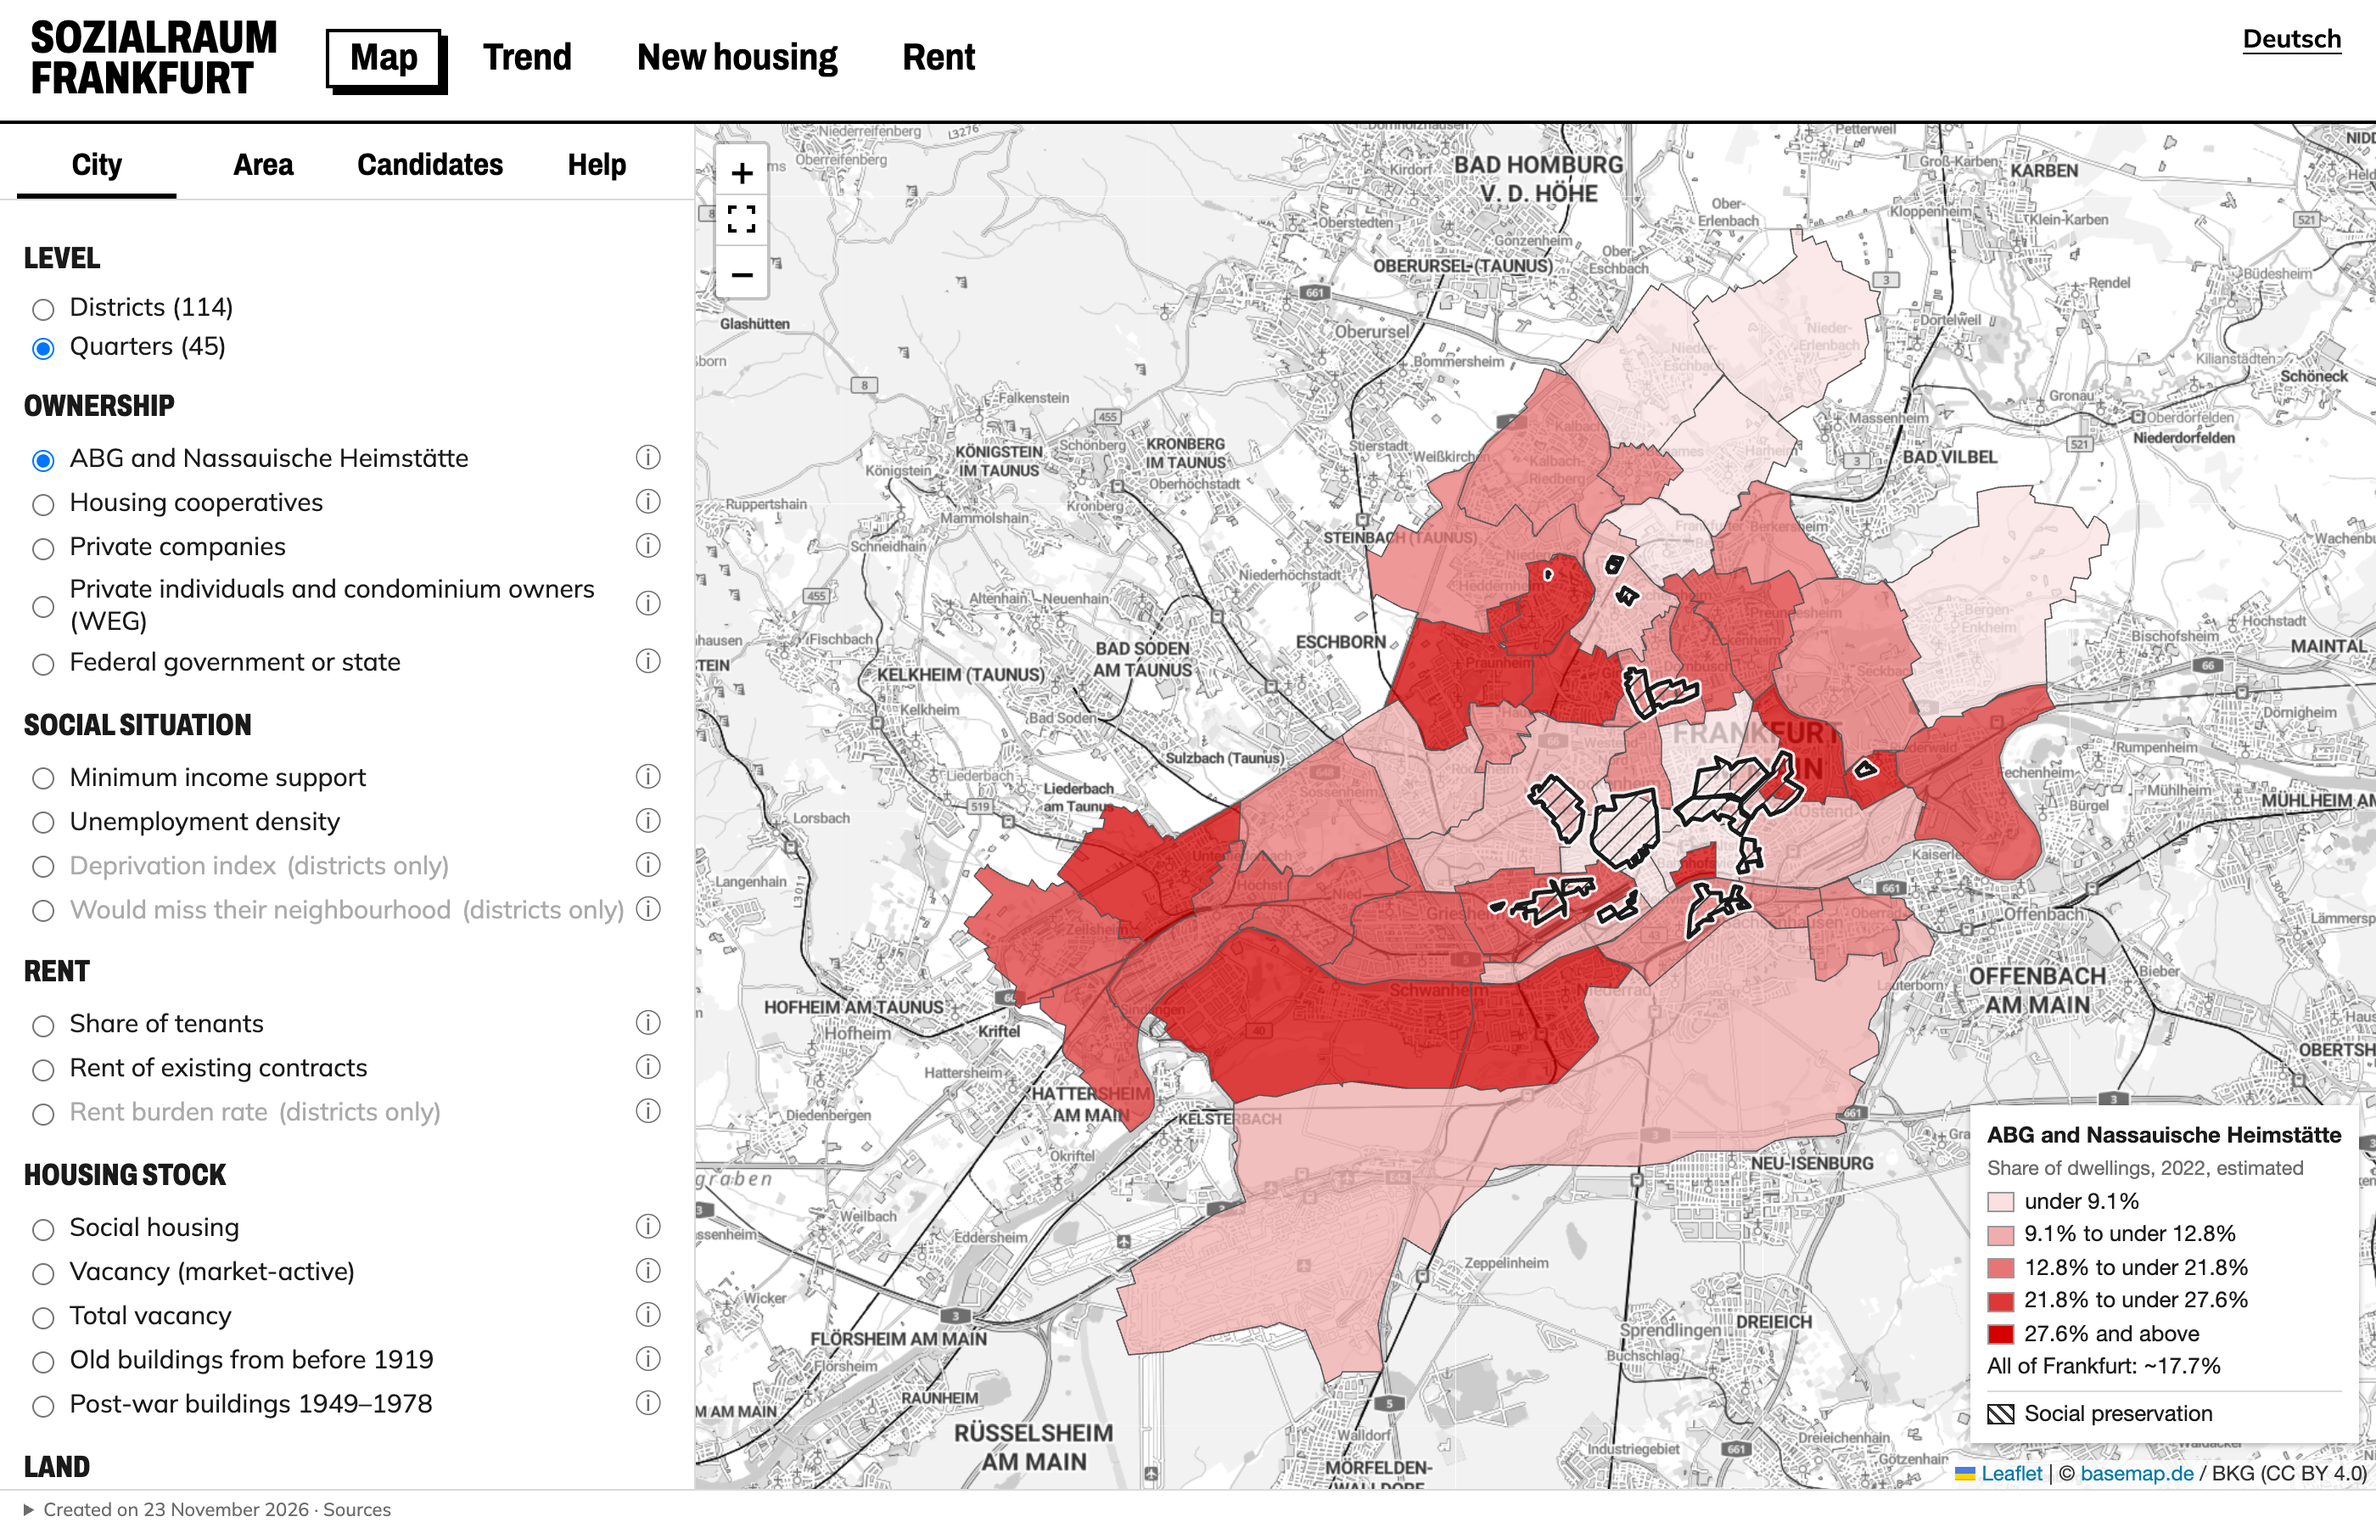
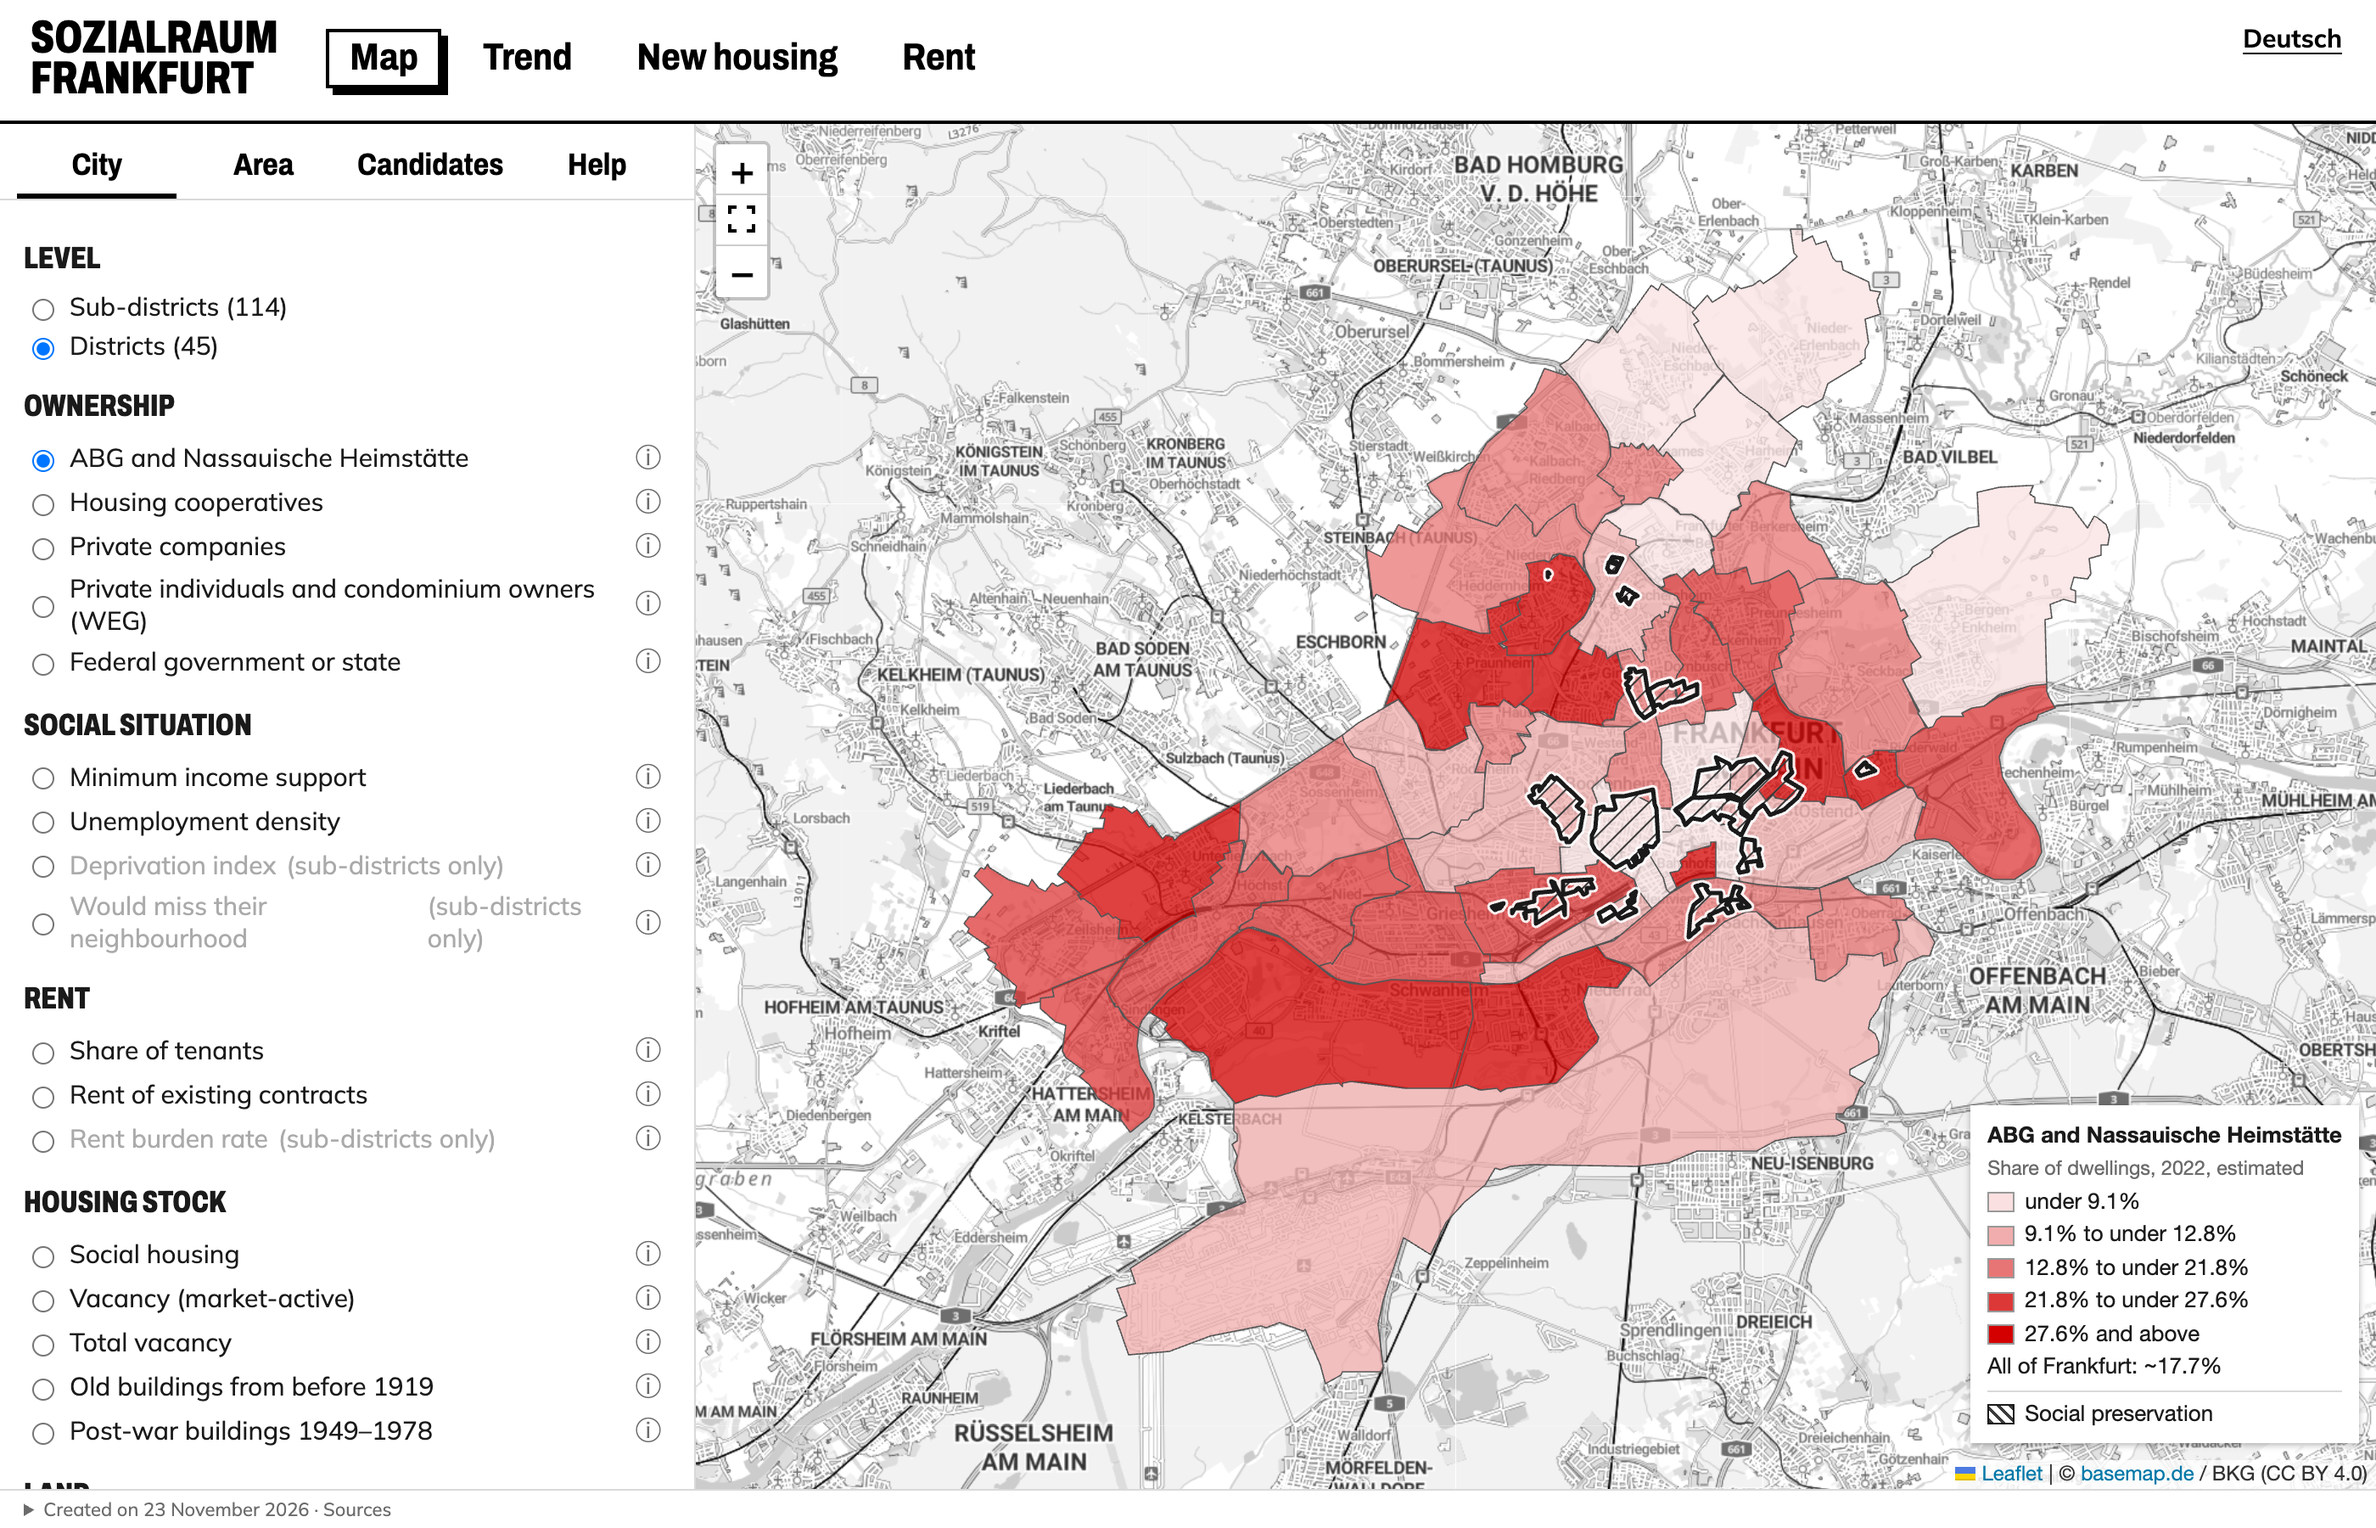
English map teaser: districts, as the English map says now

Changed region(s): [[0.0, 0.6222, 0.1864, 0.9644], [0.0311, 0.56, 0.2796, 0.6222], [0.0311, 0.1867, 0.1243, 0.2489]]

diff --git a/src/i18n/ui.ts b/src/i18n/ui.ts
@@ -245,7 +245,7 @@ const en: Ui = {
     mailSubject: "Get involved",
   },
   mapTeaser: {
-    imageAlt: "Map of Frankfurt: share of the dwellings of ABG and Nassauische Heimstätte per quarter, in shades of red",
+    imageAlt: "Map of Frankfurt: share of the dwellings of ABG and Nassauische Heimstätte per district, in shades of red",
     creditBefore: "Background: © ",
     creditAfter: " / BKG, CC BY 4.0",
     text: "We've built a map to break down Frankfurt's districts for a different housing and climate policy. Feel free to take a look and gain some new perspectives!",
